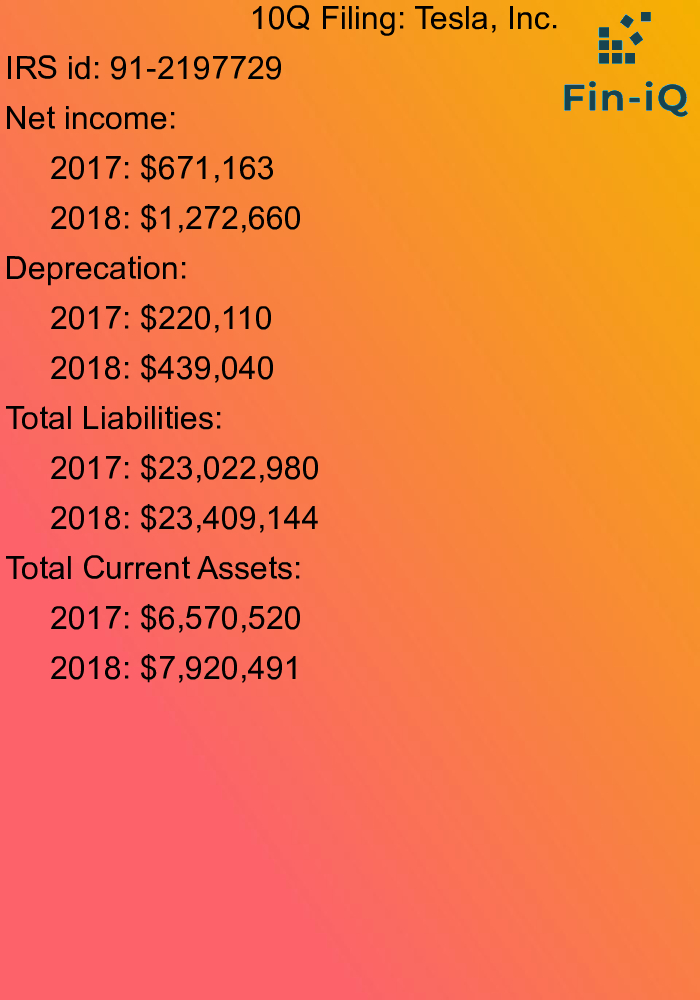
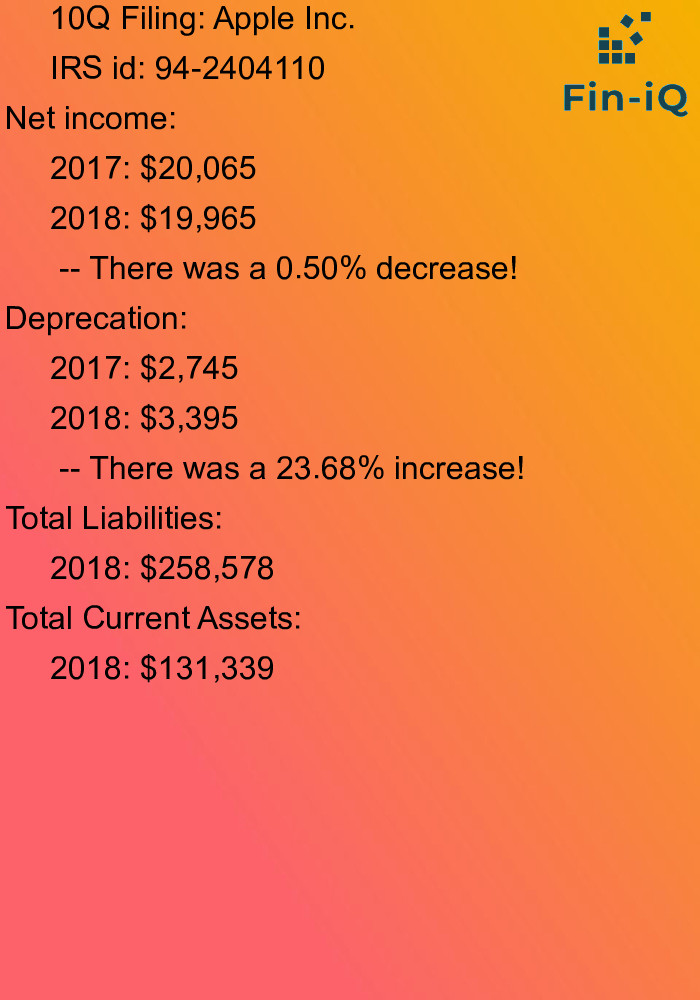
hehe

Changed region(s): [[0.0, 0.155, 0.75, 0.682], [0.0, 0.0, 0.57, 0.093], [0.6, 0.0, 0.78, 0.031]]

diff --git a/public/index.html b/public/index.html
@@ -115,110 +115,7 @@
                                 </svg>
                             </div>
                             <div class="hero-illustration-browser is-revealing">
-                                <svg width="800" height="450" viewBox="0 0 800 450" xmlns="http://www.w3.org/2000/svg">
-                                    <defs>
-                                        <linearGradient x1="50%" y1="0%" x2="50%" y2="100%" id="browser-a">
-                                            <stop stop-color="#F89595" offset="0%"/>
-                                            <stop stop-color="#EF5C5C" offset="100%"/>
-                                        </linearGradient>
-                                        <linearGradient x1="50%" y1="0%" x2="50%" y2="100%" id="browser-b">
-                                            <stop stop-color="#FFDFB0" offset="0%"/>
-                                            <stop stop-color="#FFBB78" offset="100%"/>
-                                        </linearGradient>
-                                        <linearGradient x1="50%" y1="0%" x2="50%" y2="100%" id="browser-c">
-                                            <stop stop-color="#83E78D" offset="0%"/>
-                                            <stop stop-color="#4BCA55" offset="100%"/>
-                                        </linearGradient>
-                                        <filter x="-30%" y="-42.9%" width="184%" height="220%" filterUnits="objectBoundingBox" id="browser-d">
-                                            <feOffset dx="24" dy="24" in="SourceAlpha" result="shadowOffsetOuter1"/>
-                                            <feGaussianBlur stdDeviation="24" in="shadowOffsetOuter1" result="shadowBlurOuter1"/>
-                                            <feColorMatrix values="0 0 0 0 0.866666667 0 0 0 0 0.905882353 0 0 0 0 0.937254902 0 0 0 0.56 0" in="shadowBlurOuter1" result="shadowMatrixOuter1"/>
-                                            <feMerge>
-                                                <feMergeNode in="shadowMatrixOuter1"/>
-                                                <feMergeNode in="SourceGraphic"/>
-                                            </feMerge>
-                                        </filter>
-                                        <linearGradient x1="19.946%" y1="72.147%" x2="73.772%" y2="18.374%" id="browser-e">
-                                            <stop stop-color="#F8F7FF" offset="0%"/>
-                                            <stop stop-color="#DAD8FF" offset="100%"/>
-                                        </linearGradient>
-                                        <linearGradient x1="50%" y1="0%" x2="50%" y2="100%" id="browser-f">
-                                            <stop stop-color="#DAD8FF" offset="0%"/>
-                                            <stop stop-color="#857DF3" offset="100%"/>
-                                        </linearGradient>
-                                        <linearGradient x1="50%" y1="0%" x2="50%" y2="100%" id="browser-g">
-                                            <stop stop-color="#DAD8FF" offset="0%"/>
-                                            <stop stop-color="#CDCAFF" offset="100%"/>
-                                        </linearGradient>
-                                        <linearGradient x1="94.808%" y1="-15.701%" x2="6.924%" y2="82.567%" id="browser-h">
-                                            <stop stop-color="#5DFBD7" stop-opacity="0" offset="0%"/>
-                                            <stop stop-color="#5DFBD7" offset="100%"/>
-                                        </linearGradient>
-                                        <linearGradient x1="1.733%" y1="-10.509%" y2="77.375%" id="browser-i">
-                                            <stop stop-color="#6EFACC" stop-opacity="0" offset="0%"/>
-                                            <stop stop-color="#6EFACC" offset="100%"/>
-                                        </linearGradient>
-                                        <linearGradient x1="92.458%" y1="5.866%" x2="0%" y2="100%" id="browser-j">
-                                            <stop stop-color="#5DFBD7" offset="0%"/>
-                                            <stop stop-color="#5DFBD7" stop-opacity="0" offset="100%"/>
-                                        </linearGradient>
-                                        <linearGradient x1="92.458%" y1="5.866%" x2="0%" y2="100%" id="browser-k">
-                                            <stop stop-color="#5DFBD7" stop-opacity="0" offset="0%"/>
-                                            <stop stop-color="#5DFBD7" stop-opacity=".513" offset="48.724%"/>
-                                            <stop stop-color="#5DFBD7" stop-opacity="0" offset="100%"/>
-                                        </linearGradient>
-                                        <linearGradient x1="92.458%" y1="5.866%" x2="0%" y2="100%" id="browser-l">
-                                            <stop stop-color="#5DFBD7" stop-opacity="0" offset="0%"/>
-                                            <stop stop-color="#5DFBD7" stop-opacity=".513" offset="47.494%"/>
-                                            <stop stop-color="#5DFBD7" stop-opacity="0" offset="100%"/>
-                                        </linearGradient>
-                                        <filter x="-23.1%" y="-21.8%" width="192.3%" height="187.3%" filterUnits="objectBoundingBox" id="browser-m">
-                                            <feOffset dx="24" dy="24" in="SourceAlpha" result="shadowOffsetOuter1"/>
-                                            <feGaussianBlur stdDeviation="12" in="shadowOffsetOuter1" result="shadowBlurOuter1"/>
-                                            <feColorMatrix values="0 0 0 0 0.866666667 0 0 0 0 0.905882353 0 0 0 0 0.937254902 0 0 0 0.56 0" in="shadowBlurOuter1" result="shadowMatrixOuter1"/>
-                                            <feMerge>
-                                                <feMergeNode in="shadowMatrixOuter1"/>
-                                                <feMergeNode in="SourceGraphic"/>
-                                            </feMerge>
-                                        </filter>
-                                        <linearGradient x1="100%" y1="50%" x2="-57.904%" y2="50%" id="browser-n">
-                                            <stop stop-color="#DAD8FF" offset="0%"/>
-                                            <stop stop-color="#857DF3" offset="100%"/>
-                                        </linearGradient>
-                                        <filter x="-500%" y="-500%" width="1000%" height="1000%" filterUnits="objectBoundingBox" id="dropshadow-1">
-                                            <feOffset dy="16" in="SourceAlpha" result="shadowOffsetOuter"/>
-                                            <feGaussianBlur stdDeviation="24" in="shadowOffsetOuter" result="shadowBlurOuter"/>
-                                            <feColorMatrix values="0 0 0 0 0.10 0 0 0 0 0.17 0 0 0 0 0.21 0 0 0 0.22 0" in="shadowBlurOuter"/>
-                                        </filter>
-                                    </defs>
-                                    <g fill="none" fill-rule="evenodd">
-                                        <rect width="800" height="450" rx="2" fill="#FFF" style="filter:url(#dropshadow-1)"/>
-                                        <rect width="800" height="450" rx="2" fill="#FFF"/>
-                                        <g>
-                                            <path fill="#DDE7EF" d="M0 32h800v1H0z"/>
-                                            <circle fill="url(#browser-a)" cx="24" cy="16" r="4"/>
-                                            <circle fill="url(#browser-b)" cx="40" cy="16" r="4"/>
-                                            <circle fill="url(#browser-c)" cx="56" cy="16" r="4"/>
-                                        </g>
-                                        <g filter="url(#browser-d)" transform="translate(505 196)" fill-rule="nonzero">
-                                            <path d="M100 100l100-50.426L103.193.762a7.087 7.087 0 0 0-6.393 0L0 49.574 100 100z" fill="url(#browser-e)"/>
-                                            <path d="M199 90L99 139.875v-40L199 50v40z" fill="url(#browser-f)"/>
-                                            <path d="M100 139.875L0 90V50l100 49.875v40z" fill="url(#browser-g)"/>
-                                        </g>
-                                        <g stroke-width="2">
-                                            <path stroke="url(#browser-h)" d="M498.336 298.7l-62.117 30.105L194 208" transform="translate(169 54)"/>
-                                            <path d="M511.219 127.805L269 7" stroke="url(#browser-i)" transform="translate(169 54)"/>
-                                            <path d="M312 157.547L533.512 43" stroke="url(#browser-j)" transform="translate(169 54)"/>
-                                            <path d="M222 114.547L443.512 0" stroke="url(#browser-k)" transform="translate(169 54)"/>
-                                            <path d="M0 356.547L221.512 242" stroke="url(#browser-l)" transform="translate(169 54)"/>
-                                            <path d="M215 319.266L312.031 268" stroke="url(#browser-j)" transform="translate(169 54)"/>
-                                        </g>
-                                        <g filter="url(#browser-m)" transform="scale(-1 1) rotate(45 -338.122 -406.594)" fill-rule="nonzero">
-                                            <path d="M52 0L.511 70.268a2.668 2.668 0 0 0-.478 1.987 2.63 2.63 0 0 0 1.076 1.732L52 110V0z" fill="url(#browser-e)"/>
-                                            <path d="M103.49 70.27L52 0v110l50.89-36.011a2.637 2.637 0 0 0 1.077-1.732 2.669 2.669 0 0 0-.476-1.987z" fill="url(#browser-n)"/>
-                                        </g>
-                                    </g>
-                                </svg>
+                                    <img style="width:1200px;height:400px;" src="test.png">
                             </div>
                             <div class="hero-ball hero-ball-3 is-revealing">
                                 <svg width="80" height="80" viewBox="0 0 80 80" xmlns="http://www.w3.org/2000/svg">
@@ -277,6 +174,8 @@
                         </div>
                     </div>
                 </div>
+            
+            
             </section>
         </main>
 

diff --git a/image.js b/image.js
@@ -3,15 +3,26 @@ var Jimp = require("jimp");
 var fileName = './public/gradient.jpg';
 var fileNameNew = './public/gradientnew.jpg';
 var watermark = './public/watermark.png'
-var company = "asdf"
-var imageCaption = `                    10Q filing for ${company}`
-var netRev =  `123123123123123`;
+
 var loadedImage;
 
 const image = {}; 
 
 let loadedImageHeight = 1000;
 let loadedImageWidth = 700;
+
+function calculateMath(firstValue, secondValue) { 
+    let val1 = Number(firstValue.replace(/,/g, ""));
+    let val2 = Number(secondValue.replace(/,/g, ""));
+    console.log(val1) 
+    console.log(val2)
+    let difference = val2-val1;
+    if (difference && difference > 0) { 
+        return " -- There was a " + ((Math.abs(difference)/val1)*100).toFixed(2) + "% increase!";
+    } else if (difference && difference < 0){ 
+        return " -- There was a " + ((Math.abs(difference)/val1)*100).toFixed(2) + "% decrease!";
+    } 
+}
 
 image.makeImage = function(info, callback) { 
     Jimp.read(fileName)
@@ -28,13 +39,13 @@ image.makeImage = function(info, callback) {
                     
                     switch(item.toUpperCase()){
                         case 'NAME':
-                            loadedImage.print(font, loadedImageWidth/2 - 100, 2 * (counter), '10Q Filing: ' + info[item])
+                            loadedImage.print(font, 50, 2 * (counter), '10Q Filing: ' + info[item])
                                 .composite(watermark, loadedImageWidth - 180, -35)
                                 .write((fileNameNew));
                             counter+=25;
                             break;
                         case 'IRS_ID':
-                            loadedImage.print(font, 5, 2 * (counter), 'IRS id: ' + info[item])
+                            loadedImage.print(font, 50, 2 * (counter), 'IRS id: ' + info[item])
                                 .composite(watermark, loadedImageWidth - 180, -35)
                                 .write((fileNameNew));
                             counter+=25;
@@ -44,23 +55,49 @@ image.makeImage = function(info, callback) {
                                 .composite(watermark, loadedImageWidth - 180, -35)
                                 .write((fileNameNew));
                             counter += 25;
+                            let firstNetIncome; 
+                            let printCounter = 0;
+                            let indexReal = Object.keys(info.netIncome).length;
                             Object.keys(info[item]).forEach((year)=>{
+                                // let index = Object.keys(info.netIncome).length;
                                 loadedImage.print(font, 50, 2 * (counter), year + ': $' + info[item][year])
                                     .composite(watermark, loadedImageWidth - 180, -35)
                                     .write((fileNameNew));
                                     counter += 25;
+                                if (printCounter == 0) { 
+                                    firstNetIncome = info[item][year];
+                                } else if (printCounter == 1) { 
+                                    // let calcFont = Jimp.loadFont(Jimp.FONT_SANS_32_WHITE)
+                                    loadedImage.print(font, 50, 2 * (counter), 
+                                    calculateMath(firstNetIncome, info[item][year]))
+                                        .write((fileNameNew));
+                                        counter += 25;
+                                }
+                                printCounter++; 
                             });
+  
                             break;
                         case 'DEPRECIATION':
                             loadedImage.print(font, 5, 2 * (counter), 'Deprecation: ')
                             .composite(watermark, loadedImageWidth - 180, -35)
                             .write((fileNameNew));
                             counter += 25;
+                            let firstDepreciation; 
+                            let printCounter2 = 0;
                             Object.keys(info[item]).forEach((year)=>{
                                 loadedImage.print(font, 50, 2 * (counter), year + ': $' + info[item][year])
                                     .composite(watermark, loadedImageWidth - 180, -35)
                                     .write((fileNameNew));
                                     counter += 25;
+                                if (printCounter2 == 0) { 
+                                    firstDepreciation = info[item][year];
+                                } else if (printCounter2 == 1) { 
+                                    loadedImage.print(font, 50, 2 * (counter), 
+                                    calculateMath(firstDepreciation, info[item][year]))
+                                        .write((fileNameNew));
+                                        counter += 25;
+                                }
+                                printCounter2++; 
                             });
                             break;
                         case 'TOTAL_LIABILITIES':
@@ -68,11 +105,22 @@ image.makeImage = function(info, callback) {
                             .composite(watermark, loadedImageWidth - 180, -35)
                             .write((fileNameNew));
                             counter += 25;
+                            let firstLiability; 
+                            let printCounter3 = 0;
                             Object.keys(info[item]).forEach((year)=>{
                                 loadedImage.print(font, 50, 2 * (counter), year + ': $' + info[item][year])
                                     .composite(watermark, loadedImageWidth - 180, -35)
                                     .write((fileNameNew));
                                     counter += 25;
+                                if (printCounter3 == 0) { 
+                                    firstLiability = info[item][year];
+                                } else if (printCounter3 == 1) { 
+                                    loadedImage.print(font, 50, 2 * (counter), 
+                                    calculateMath(firstLiability, info[item][year]))
+                                        .write((fileNameNew));
+                                        counter += 25;
+                                }
+                                printCounter3++; 
                             });
                             break;
                         case 'TCA':
@@ -80,11 +128,22 @@ image.makeImage = function(info, callback) {
                             .composite(watermark, loadedImageWidth - 180, -35)
                             .write((fileNameNew));
                             counter += 25;
+                            let firstTCA; 
+                            let printCounter4 = 0;
                             Object.keys(info[item]).forEach((year)=>{
                                 loadedImage.print(font, 50, 2 * (counter), year + ': $' + info[item][year])
                                     .composite(watermark, loadedImageWidth - 180, -35)
                                     .write((fileNameNew));
                                     counter += 25;
+                                if (printCounter4 == 0) { 
+                                    firstTCA = info[item][year];
+                                } else if (printCounter4 == 1) { 
+                                    loadedImage.print(font, 50, 2 * (counter), 
+                                    calculateMath(firstTCA, info[item][year]))
+                                        .write((fileNameNew));
+                                        counter += 25;
+                                }
+                                printCounter4++; 
                             });
                             break;
                         default://do nothing

diff --git a/public/test.html b/public/test.html
@@ -4,7 +4,7 @@
     <meta charset="utf-8">
     <meta http-equiv="X-UA-Compatible" content="IE=edge">
     <meta name="viewport" content="width=device-width, initial-scale=1">
-    <title>Holly Template</title>
+    <title>Fin IQ</title>
     <link href="https://fonts.googleapis.com/css?family=Fira+Sans:400,400i,500,700" rel="stylesheet">
     <link rel="stylesheet" href="dist/css/style.css">
     <script src="https://unpkg.com/scrollreveal@4.0.0/dist/scrollreveal.min.js"></script>
@@ -295,7 +295,7 @@
                             </a>
                         </li>
                     </ul>
-                    <div class="footer-copyright">&copy; 2018 Holly, all rights reserved</div>
+                    <div class="footer-copyright">&copy; 2018 Fin IQ, all rights reserved</div>
                 </div>
             </div>
         </footer>
